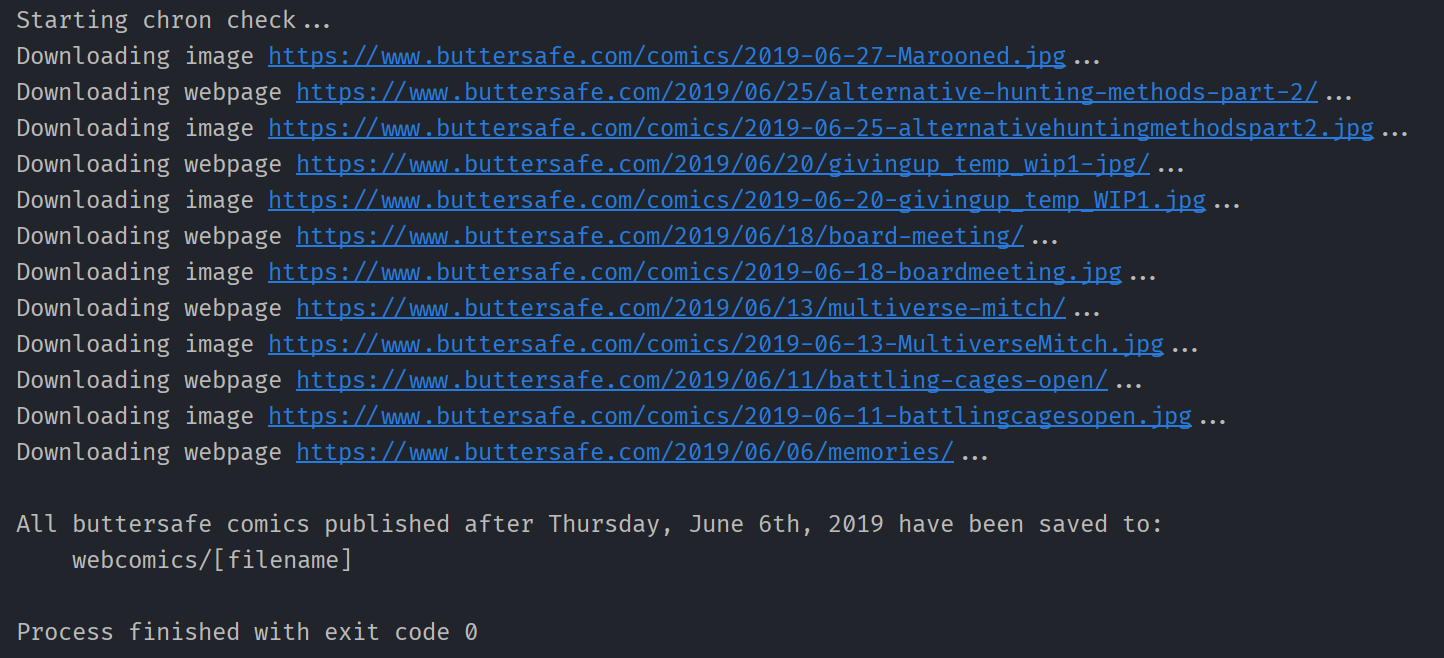
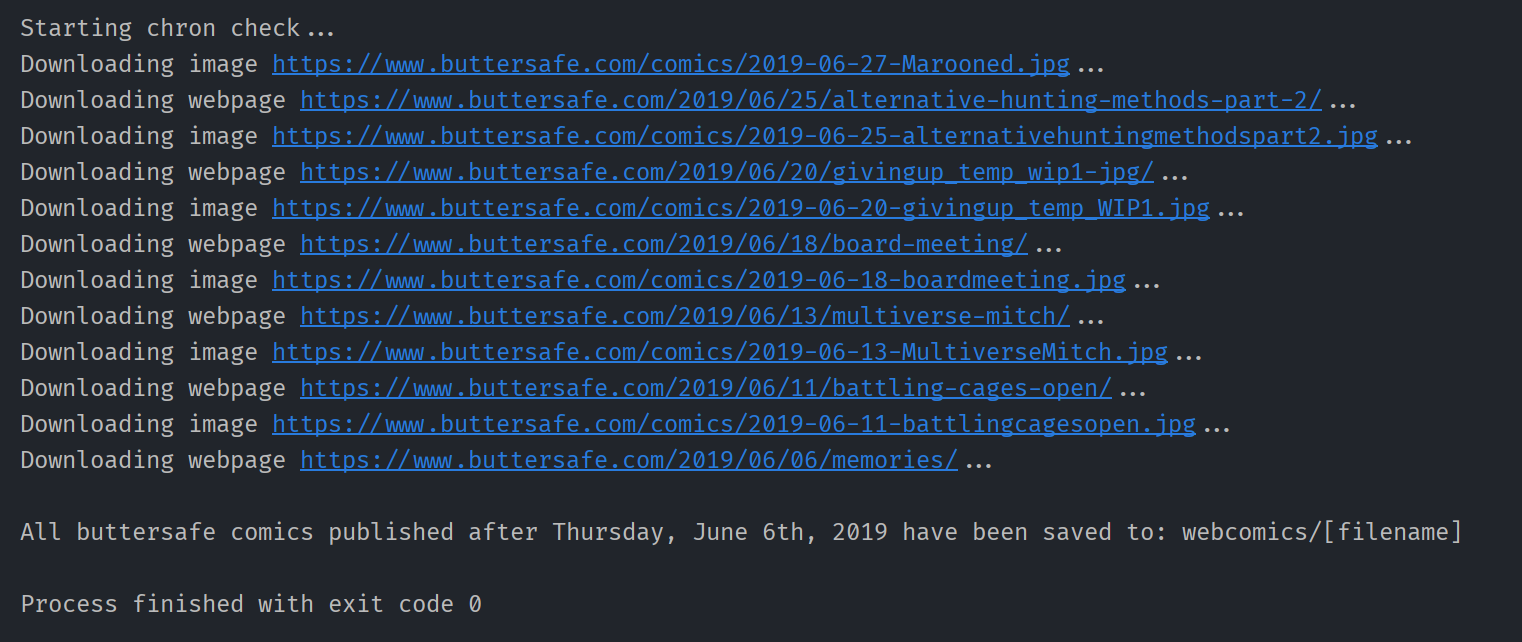
Adjusts console message with output path to be a single line

Changed region(s): [[0.0, 0.0, 0.9661, 0.7477], [0.0, 0.7788, 0.9661, 0.8723], [0.0, 0.9346, 0.3428, 0.9969]]

diff --git a/webcomic_downloader/webcomic_downloader.py b/webcomic_downloader/webcomic_downloader.py
@@ -46,7 +46,7 @@ def check_buttersafe(root=join(abspath('.'), 'webcomics'), previous_date=None):
                 download_buttersafe_comic(soup, root)
                 current_date, soup = get_previous_butterface(soup)
             print(f'\nAll buttersafe comics published after {previous_date} '
-                  f'have been saved to:\n\t{join(basename(root), "[filename]")}')
+                  f'have been saved to: {join(basename(root), "[filename]")}')
 
     return latest_date
 
